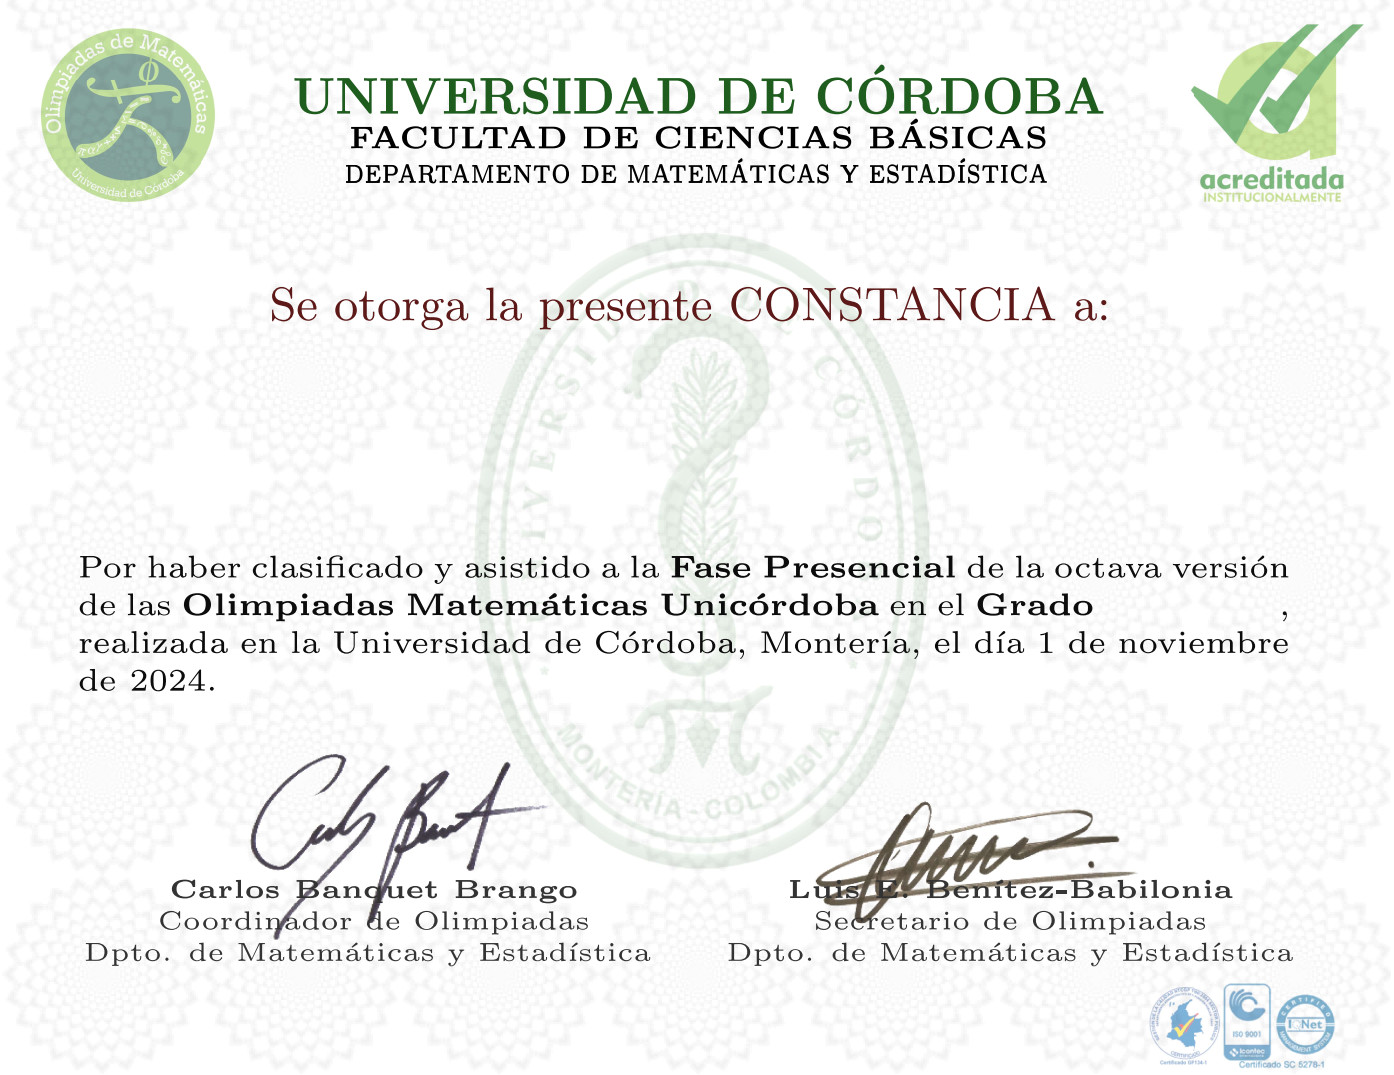
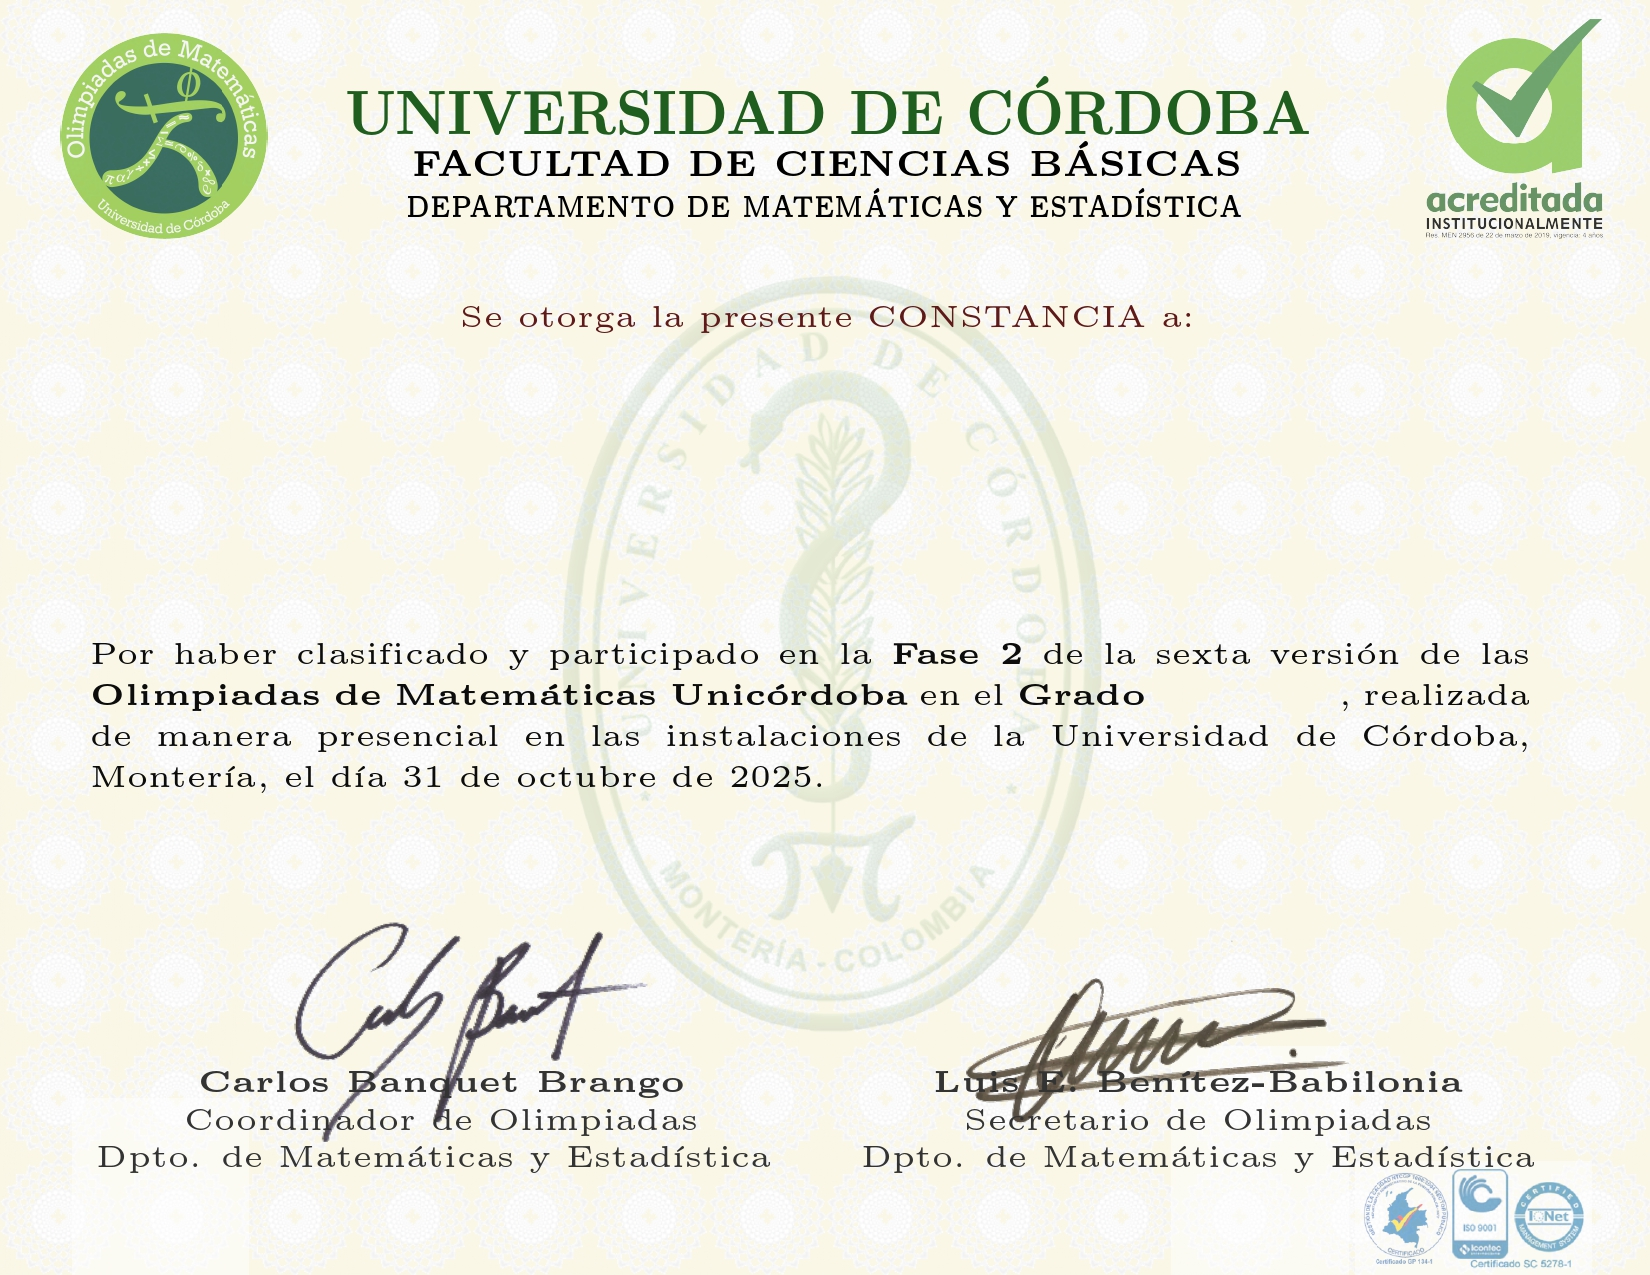
update 12 11 2025

diff --git a/index.php b/index.php
@@ -406,7 +406,7 @@
   $(document).ready(function() {
     $('#anuncio').modal('hide');
     $('#ayuda').modal('hide');
-    //$('#mcert').modal('show'); activar para ver certificados
+    $('#mcert').modal('show'); //activar para ver certificados
     $('#rmail').modal('hide');
     $('#coord').modal('hide');
   });
